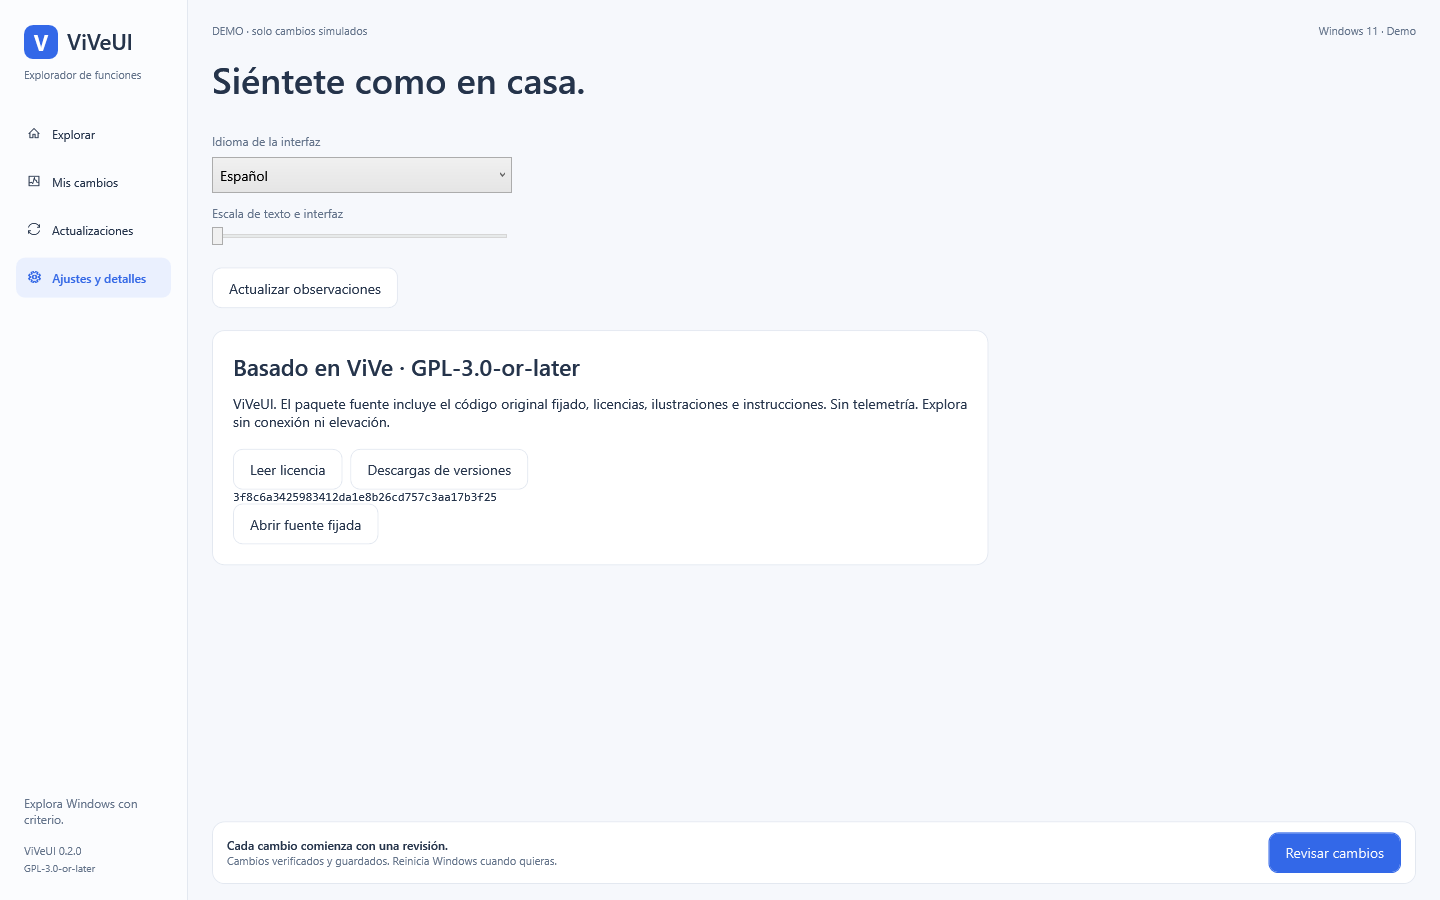
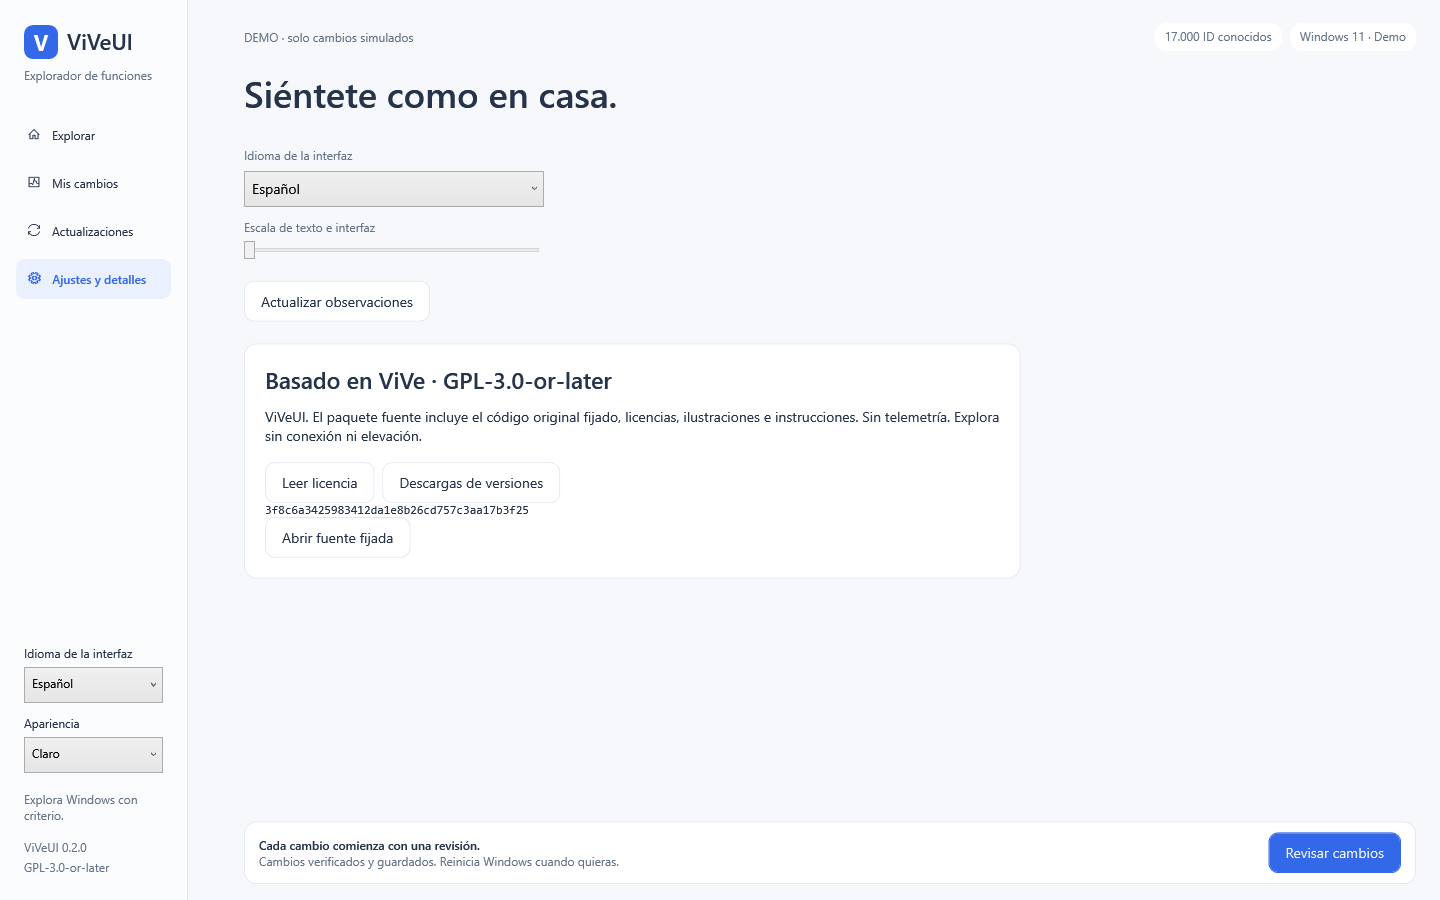
Update refined Windows previews and verify bundled worker handshake

diff --git a/docs/VALIDATION.md b/docs/VALIDATION.md
@@ -9,7 +9,7 @@ cancellation, and verified downloads.
 
 Windows Actions builds actual WPF markup and code, then runs `--smoke` against
 an in-memory backend. It exercises search, selection, staging and cancellation,
-fake apply/read-back, scoped restore, language switching, and nine PNG renders
+fake apply/read-back, scoped restore, language switching, and ten PNG renders
 from the actual control tree at fixed 1440×900 and 900×900 logical viewports.
 These are offscreen renders, not physical desktop captures. Chinese explore and
 review fixtures select IDs 37634385 and 39420424 with two staged enables.
@@ -31,7 +31,7 @@ Neither IPC diagnostics nor UI smoke instantiate a real mutation request.
 
 CI publishes self-contained x64 and ARM64 single EXEs, exact-commit source and
 license archives, checksums and BUILD.json. It copies only the x64 EXE into a
-clean directory, hides external .NET discovery, reruns the nine-render smoke,
+clean directory, hides external .NET discovery, reruns the ten-render smoke,
 and checks runtime notices extracted from the bundle. ARM64 is cross-published;
 native ARM64 execution is not claimed.
 
@@ -49,9 +49,10 @@ different-account elevation, changed-since-review conflicts, and interrupted
 batches. Test actual mutations only in a disposable VM with a snapshot and
 explicit operator consent.
 
-The supplied Library mockup images could not be retrieved (HTTP 403, including
-one retry; image reads exposed no pixels). The implementation follows the written
-layout requirements, but pixel-level reference comparison remains blocked.
+Original Library mockup transfer failed in this environment (HTTP 403 after one
+retry; no native pixels in image reads). The originating session supplied concrete
+visual comparison findings, which informed the final layout. Actual app renders
+were inspected; exact pixel equivalence is not claimed.
 
 No universal Windows default or compatibility matrix has been inferred. Missing
 query results remain unknown; unsupported APIs and advanced override keys are
@@ -61,13 +62,15 @@ Pinned dictionary SHA-256:
[1 lines of base64/hex data omitted]
 The byte-level test and `.gitattributes` prevent checkout newline conversion.
 
+
 ## Recorded release-candidate evidence
 
-[Windows run 37667369552](https://github.com/BlakeLiAFK/ViVeUI/actions/runs/37667369552)
+[Windows run 37668845516](https://github.com/BlakeLiAFK/ViVeUI/actions/runs/37668845516)
 passed all checks for implementation commit
-`a39caae19b489c4f4069b830189db21216a060f0`: 47 core tests, WPF build and
-nine-render UI interactions, cross-integrity IPC, both single-EXE publications,
+`8c4c8941a1164a8dd9cac9d80dc73608110face4`: 47 core tests, WPF build and
+ten-render UI interactions, cross-integrity IPC, both single-EXE publications,
 and the x64 clean-folder launch including extracted runtime notices.
 The [checked-in previews and reports](previews/) come from this run.
 The final release includes BUILD.json linking its independently validated exact
 commit and workflow; source and checksums are generated from that same commit.
+The final workflow also repeats the handshake using the bundled EXE itself.

diff --git a/docs/DESIGN.md b/docs/DESIGN.md
@@ -34,7 +34,7 @@ identifiers, build strings and original OS diagnostics are intentionally unchang
 No image contains translated text. WPF supports flow direction but a full RTL
 translation is not shipped; RTL and Narrator behavior still require human validation.
 At compact widths the catalog and detail become separate pages with explicit
-Open details / Back controls; minimum width is 880 logical pixels.
+Open details / Back controls; minimum width is 900 logical pixels.
 
 Guidance:
 - https://learn.microsoft.com/en-us/windows/apps/design/accessibility/accessibility-checklist
@@ -43,10 +43,18 @@ Guidance:
 These references explain design choices, not an assertion that ViVeUI won an award
 or passed independent accessibility certification.
 
-## Reference-image limitation
+## Reference comparison
 
-Two supplied Library mockup references could not be visually inspected: authorized
-materialization returned HTTP 403, including one retry, and image reads returned
-no pixels. The implementation follows the supplied structural requirements.
-No pixel-level comparison or claim of visual equivalence is made. Chinese native
-fixtures select 37634385 and 39420424 for reproducible review.
+The supplied Library images could not be materialized in this build environment:
+authorized downloads returned HTTP 403, including one retry, and image reads
+returned no pixels. The originating session inspected those pixels and supplied
+concrete comparison findings. Those findings informed the wider 438 px explore
+panel, 370 px summary, larger artwork and text, selected-card outline, historical
+badges, labeled state pills, sidebar language/appearance controls and review layout.
+Actual Windows renders were inspected after these changes; no claim of exact pixel
+identity is made. Chinese fixtures use IDs 37634385 and 39420424.
+
+Appearance offers system, light and dark settings; system high contrast takes
+precedence. The original navigation-pane drawing is distinct from the tabs drawing.
+At narrow widths, explore uses separate catalog/detail views and the review summary
+moves below the cards with its own scroll area. Primary footer actions remain fixed.

diff --git a/docs/previews/README.md b/docs/previews/README.md
@@ -1,8 +1,8 @@
 # ViVeUI native previews
 
 Original WPF control-tree renders with an in-memory demo backend.
-Implementation commit: `a39caae19b489c4f4069b830189db21216a060f0`.
-Generated by [Windows run 37667369552](https://github.com/BlakeLiAFK/ViVeUI/actions/runs/37667369552).
+Implementation commit: `8c4c8941a1164a8dd9cac9d80dc73608110face4`.
+Generated by [Windows run 37668845516](https://github.com/BlakeLiAFK/ViVeUI/actions/runs/37668845516).
 All embedded illustrations are original GPL-3.0-or-later conceptual schematics.
 
 - [Explore, English](explore.png)
@@ -14,12 +14,14 @@ All embedded illustrations are original GPL-3.0-or-later conceptual schematics.
 - [Settings, Spanish](settings-es.png)
 - [Compact catalog](compact-catalog.png)
 - [Compact feature details](compact-detail.png)
+- [Compact two-feature review](compact-review.png)
 
 Explore/review fixtures select IDs 37634385 and 39420424 with two staged enables.
 Renders use 1440×900 / 900×900 logical viewports. They are not physical desktop
 captures and do not show actual Windows experimental features. No feature
-settings were changed. The original mockup references could not be retrieved;
-there is no pixel-equivalence claim.
+settings were changed. The originating session supplied visual comparison findings after the mockup
+transfer failed in this environment. Layout reflects those findings; exact pixel
+identity is not claimed.
 
 The same run passed 47 core tests, native WPF interactions and active-navigation
 assertions, cross-integrity authenticated IPC, x64/ARM64 self-contained single-EXE
